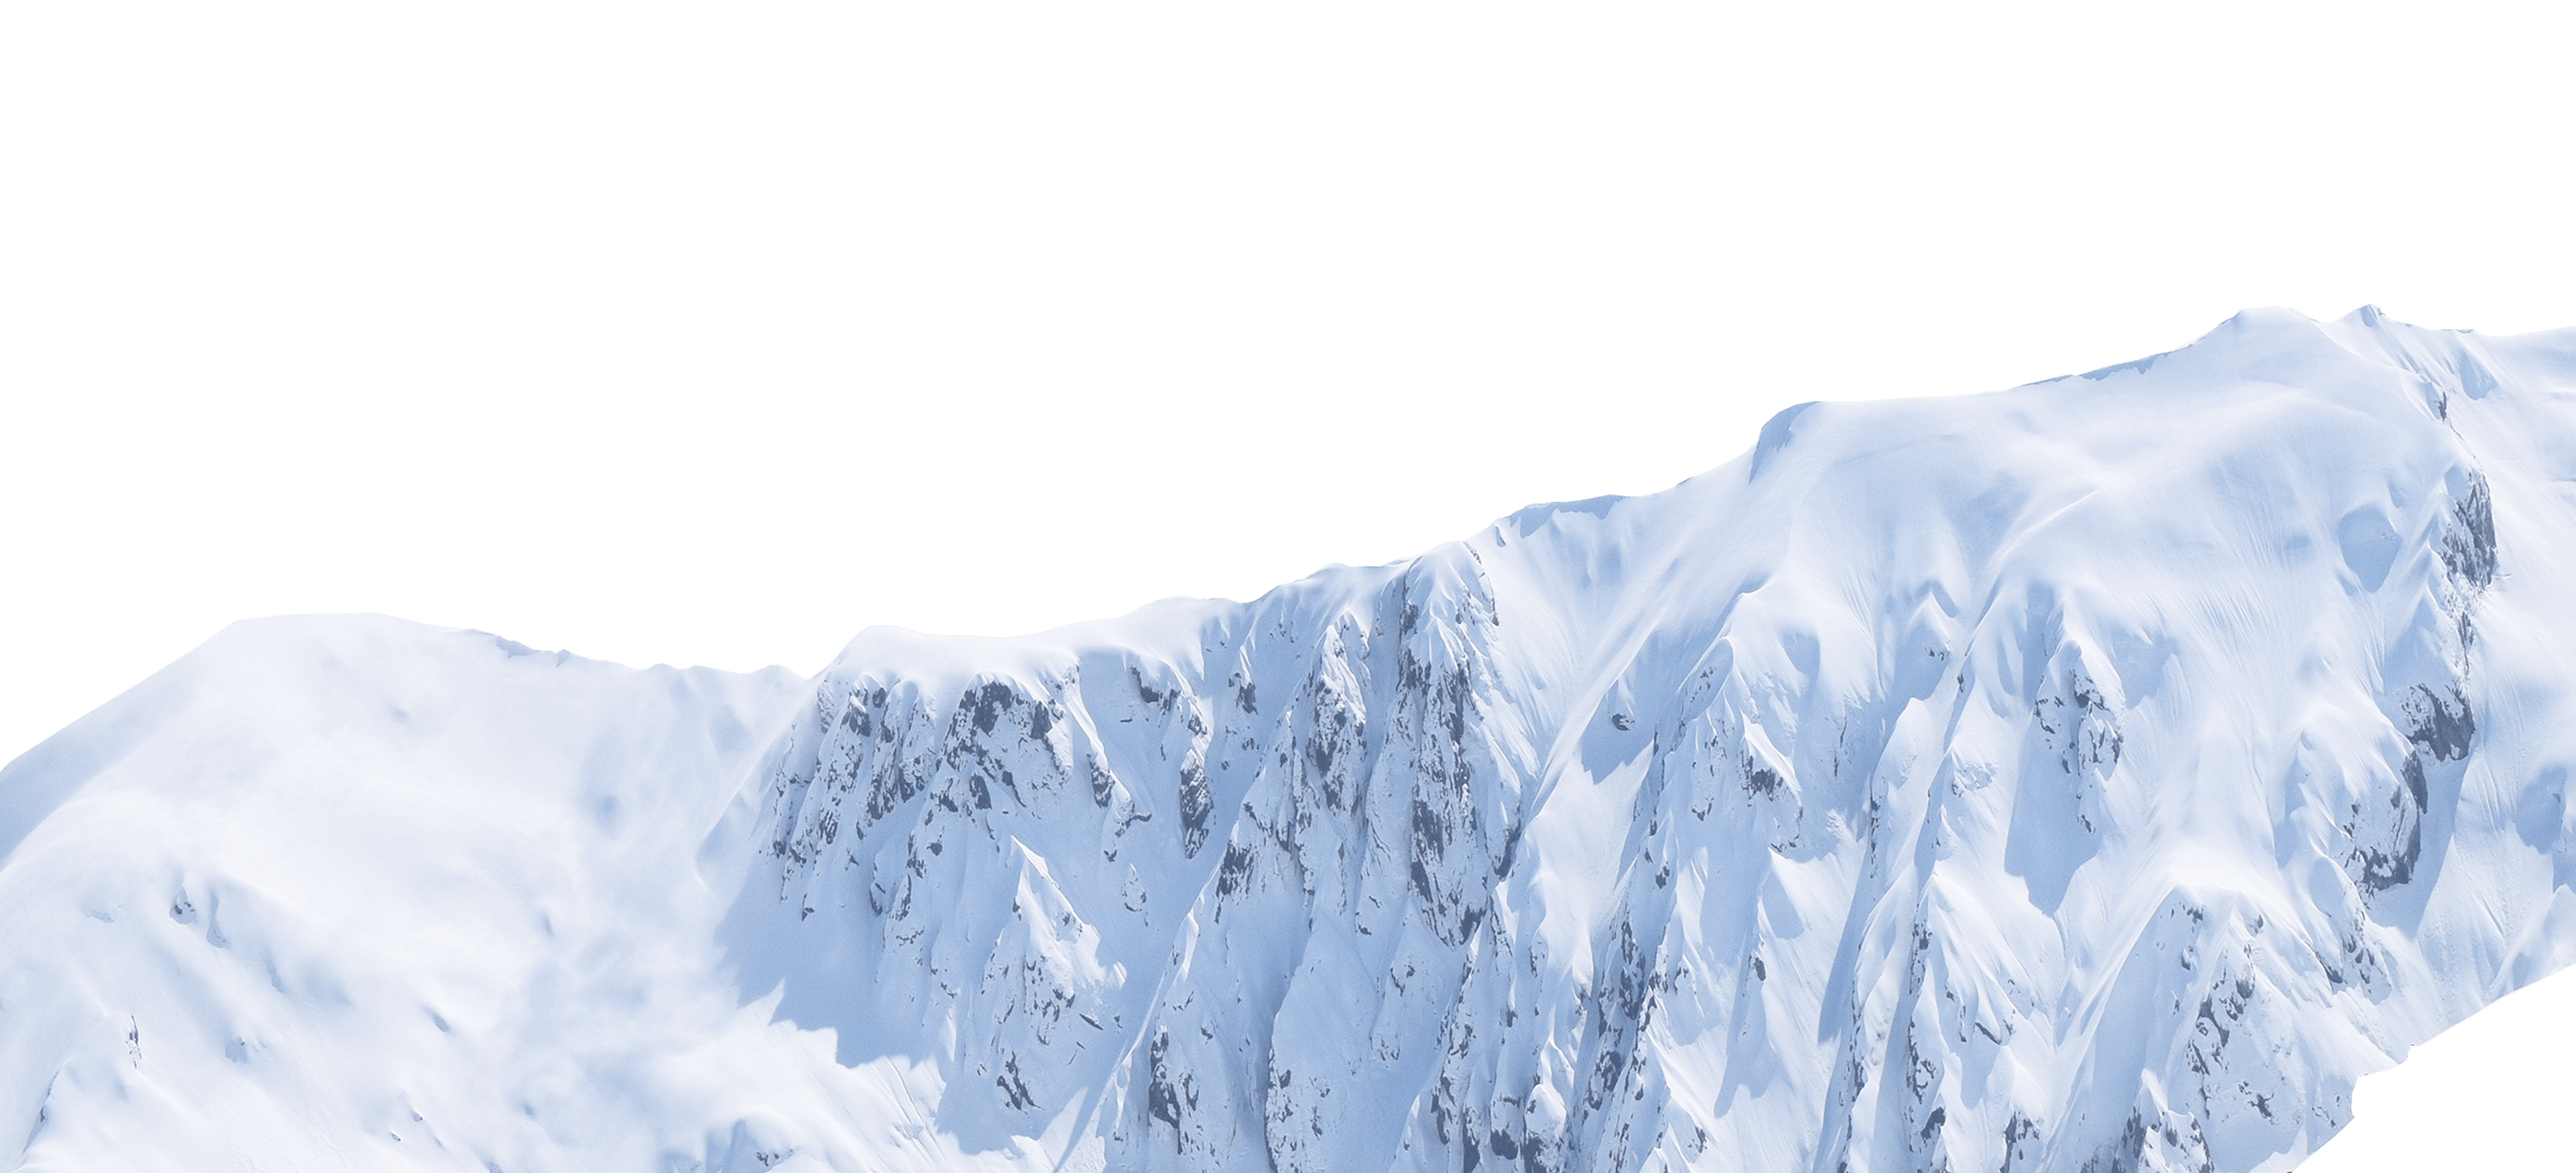
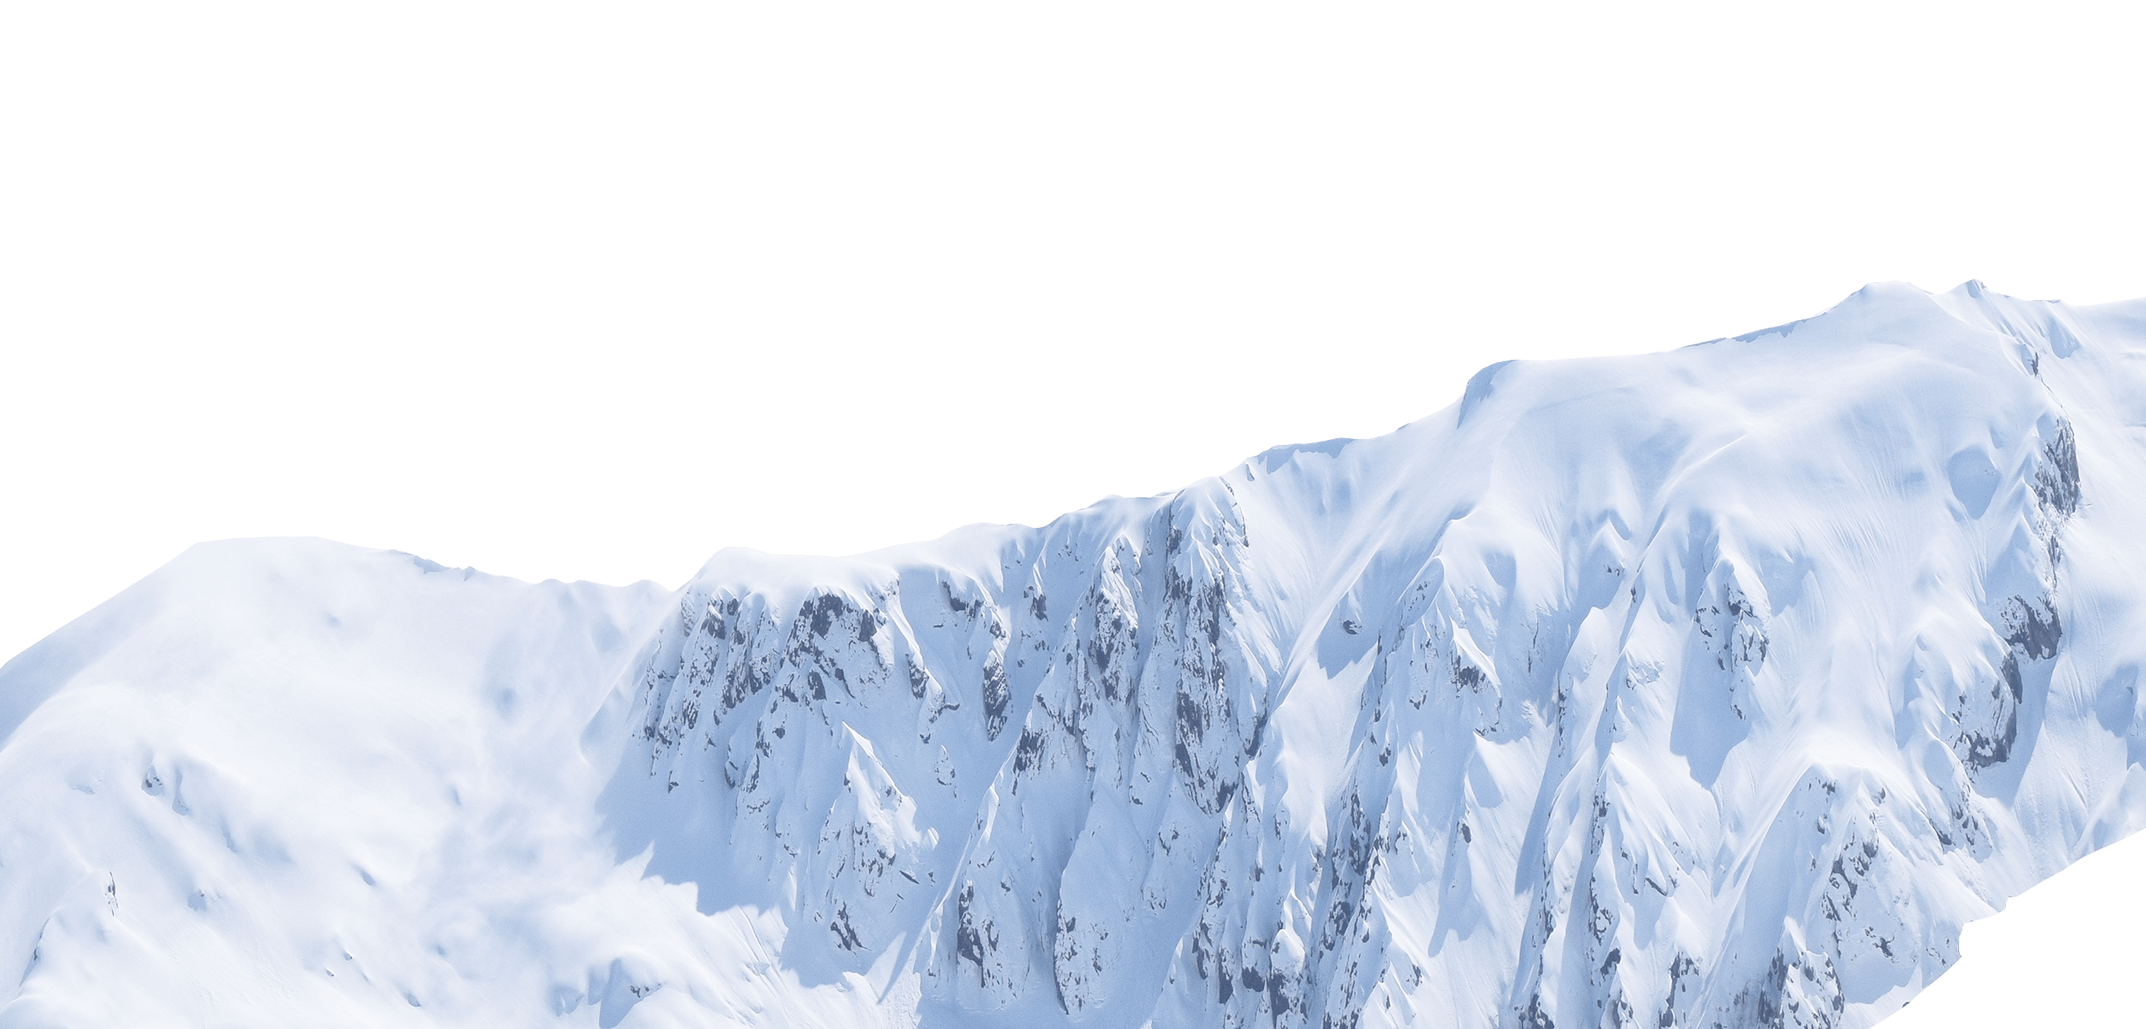
паралакс, слайдер в секции отзывы

diff --git a/src/scripts/parallax.js b/src/scripts/parallax.js
@@ -4,10 +4,16 @@ const layersPromo = parallaxPromo.children;
 const parallaxBudda = document.querySelector('.reviews__parallax');
 const layersBudda = parallaxBudda.children;
 
+const buddaMove = (wScroll,layers) => {
+    let buddaPos = parallaxBudda.getBoundingClientRect().top;
+    let activeParallax = wScroll - buddaPos;
+    if (activeParallax > 300 ) moveLayers(wScroll, layers);
+};
+
 const moveLayers = (wScroll, layers) => {
     Array.from(layers).forEach(layer => {
         const dataSet = layer.dataset.speed;
-        const scroll = dataSet / 40 * wScroll;
+        const scroll = dataSet / 50 * wScroll;
 
         layer.style.transform = `translate3d(0, ${-scroll}%, 0)`
     })
@@ -43,5 +49,6 @@ const moveLayers = (wScroll, layers) => {
 window.onscroll = function () {
     let wScroll = window.pageYOffset;
     moveLayers(wScroll, layersPromo);
-    moveLayers(wScroll, layersBudda);
+    // moveLayers(wScroll, layersBudda);
+    buddaMove(wScroll, layersBudda);
 };

diff --git a/src/scripts/reviews.js b/src/scripts/reviews.js
@@ -16,10 +16,18 @@ new Vue({
          swiperOption: {
             navigation: {
                nextEl: '.controls_right',
-               prevEl: '.controls_left'
+               prevEl: '.controls_left',
+               disabledClass: 'swiper-button-disabled'
             },
             slidesPerView: 2,
-            slidersPerGroup: 2
+            slidersPerGroup: 2,
+            spaceBetween: 60,
+            breakpoints: {
+               480: {
+                  slidesPerView: 1,
+                  slidersPerGroup: 1
+               }
+            }
          },
       }
    },

diff --git a/src/scripts/skills.js b/src/scripts/skills.js
@@ -1,6 +1,6 @@
 // let svgScroll = (function () {
 //     let svg = document.querySelector('.stack__svg '),
-//         // svgPath = document.querySelector('.stack__svg stack__circle-upper'),
+//         svgPath = document.querySelector('.stack__svg stack__circle-upper'),
 //         windowMargin = window.innerHeight / 3,
 //         svgRect = svg.getBoundingClientRect(),
 //         svgPos = svgRect.top;
